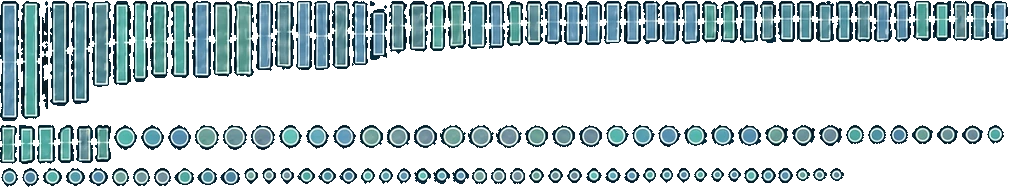
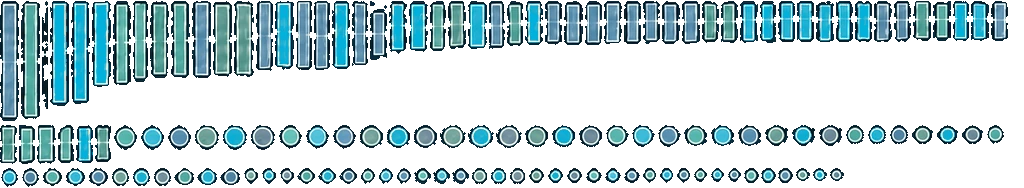
Start the light at the mitochondria, tie a lane to the heading cyan, trim the navy
- Specks now start at mitochondria inside the cells, glow there, and swell as they leave the membrane
- The middle lane and its specks take the brand cyan of "One signal."
- Only the title and the drawing sit on navy; the QSense and LuminAI cards and the quote are back on cream
- Hide the pause button unless it is reached by keyboard; reduced motion still shows the still drawing
- Make the timeline's Next a plain hollow dot reached by a dashed line

Claude-Session: https://claude.ai/code/session_019cuHXtvvktMTK4jsmHHFbv

diff --git a/assets/next/home.js b/assets/next/home.js
@@ -82,8 +82,9 @@
   sync();
 })();
 
-/* The two systems as Kelly's navy drawing, set moving, as the earlier live diagram did: light specks leave the
-   cells and drift to QSense, each one glows as it lands, a counted dot runs to its color's lane, and LuminAI's bars
+/* The two systems as Kelly's navy drawing, set moving, as the earlier live diagram did: light specks start at
+   mitochondria inside the cells (where the light comes from, Nirosha's point), drift out through the membrane to
+   QSense, each one glows as it lands, a counted dot runs to its color's lane, and LuminAI's bars
    ride the lanes left to right, taller when counts come in bursts. The cells, the detector and the lines are one
    still picture; the specks and bars are cut from the same drawing (assets/next/signal-path-night-parts.webp).
    Reduced motion and no JS keep the still drawing, and it only runs while it is on screen. */
@@ -91,7 +92,7 @@
   const art = document.querySelector('[data-signal-path]');
   if (!art || matchMedia('(prefers-reduced-motion: reduce)').matches || !('IntersectionObserver' in window)) return;
   const canvas = art.querySelector('canvas');
-  const toggle = art.parentElement.querySelector('.signal-path__pause');
+  const toggle = art.querySelector('.signal-path__pause');
   const ctx = canvas && canvas.getContext('2d');
   if (!ctx || !toggle) return;
   // Everything below is measured in the drawing's own pixels (1856 x 540).
@@ -99,11 +100,11 @@
   const SPECKS = [[845,124,867,124,889,124,20,21],[524,124,551,124,578,124,25,24],[528,167,547,167,566,167,17,17],[243,167,261,167,279,167,16,18],[795,167,812,167,829,167,15,15],[911,124,936,124,961,124,23,21],[113,124,140,124,167,124,25,27],[297,167,318,167,339,167,19,18],[605,124,631,124,657,124,24,24],[360,167,378,167,396,167,16,18],[359,124,386,124,413,124,25,25],[174,167,197,167,220,167,21,19],[194,124,222,124,250,124,26,27],[278,124,305,124,332,124,25,26],[414,167,433,167,452,167,17,18],[986,124,0,167,21,167,19,21],[42,167,65,167,88,167,21,20],[693,167,710,167,727,167,15,16],[585,167,604,167,623,167,17,17],[642,167,659,167,676,167,15,17],[683,124,710,124,737,124,25,23],[440,124,468,124,496,124,26,25],[471,167,490,167,509,167,17,18],[111,167,132,167,153,167,19,20],[764,124,791,124,818,124,25,23]];
   const MOVER = [744,167,761,167,778,167,15,16];
   const BARS = [[[213,0,19,78,40.0],[0,124,17,41,20.0],[95,124,16,39,18.0],[150,0,19,79,41.0],[430,0,16,52,26.0],[133,0,15,83,40.0],[113,0,18,86,42.0],[42,0,6,109,54.0],[21,0,19,120,61.0],[913,0,18,42,19.0],[171,0,19,79,40.0],[507,0,16,47,23.0],[58,124,16,40,18.0],[933,0,18,42,19.0],[19,124,16,41,19.0],[702,0,17,44,21.0],[721,0,17,44,21.0],[234,0,20,78,38.0],[448,0,18,50,24.0],[37,124,19,41,19.0]],[[409,0,19,53,27.4],[389,0,18,55,25.4],[92,0,19,88,43.4],[525,0,18,46,22.4],[953,0,16,42,18.3],[76,124,17,40,17.3],[332,0,18,70,30.3],[50,0,19,107,50.3],[778,0,17,43,18.3],[740,0,18,44,19.3],[797,0,17,43,18.3],[816,0,18,43,19.3],[836,0,17,43,18.3],[71,0,19,105,48.3],[855,0,17,43,18.3],[275,0,19,71,31.3],[760,0,16,44,19.3],[971,0,18,42,18.3],[468,0,19,50,25.3]],[[604,0,18,45,21.1],[296,0,16,71,34.1],[256,0,17,72,35.1],[314,0,16,71,35.1],[370,0,17,61,33.1],[0,0,19,122,61.1],[352,0,16,66,33.1],[489,0,16,50,25.1],[545,0,17,46,21.1],[624,0,17,45,21.1],[192,0,19,79,38.1],[643,0,17,45,20.1],[662,0,18,45,21.1],[874,0,18,43,20.1],[894,0,17,43,19.1],[991,0,17,42,19.1],[564,0,19,46,22.1],[682,0,18,45,21.1],[585,0,17,46,22.1]]];
+  const MITO = [[80,217],[81,187],[100,233],[130,104],[139,219],[146,386],[150,357],[160,401],[174,265],[179,303],[190,205],[192,260],[205,98],[220,192],[223,414],[292,391],[300,380],[303,310],[308,195],[326,224],[336,157],[364,127],[365,254],[373,378],[390,330],[398,338],[401,139],[402,417],[427,137],[443,210],[462,315],[477,391],[484,337]];
   const LANES = [[126.98, .00001], [283.48, -.00011], [440, .00005]];      // each lane line: y = c + slope * x
-  const EDGE = [[84, 403], [114, 448], [138, 461], [174, 476], [210, 476], [246, 459], [282, 446], [306, 505], [342, 521], [378, 513], [414, 498], [438, 474], [456, 460]];
   const DETECTOR = { x: 888, top: 60, bottom: 488, out: 935, face: [880, 18, 58, 504] };
   const DOT_X = 1061, LANE_X0 = 1084, LANE_X1 = 1825, SPEED = 60;
-  const GLOW = ['120,214,200', '90,200,232', '150,195,235'];
+  const GLOW = ['120,214,200', '0,169,214', '150,195,235'];          // the middle lane is the brand cyan of the heading
   const bySize = BARS.map((lane) => lane.filter((b) => b[2] >= 10).sort((a, b) => a[3] - b[3]));
   const glows = GLOW.map((rgb) => {
     const c = document.createElement('canvas'); c.width = c.height = 64;
@@ -113,18 +114,12 @@
     return c;
   });
   const base = new Image(), parts = new Image();
-  let specks = [], movers = [], hits = [], bars = [[], [], []], queue = [0, 0, 0], energy = [0, 0, 0], lastBar = [0, 0, 0];
+  let specks = [], sources = [], movers = [], hits = [], bars = [[], [], []], queue = [0, 0, 0], energy = [0, 0, 0], lastBar = [0, 0, 0];
   let clock = 0, debt = 0, flash = 0, scale = 1, ready = false, inView = false, paused = false, frame = 0, last = 0;
 
   const laneY = (i, x) => LANES[i][0] + LANES[i][1] * x;
   const ease = (t) => t * t * (3 - 2 * t);
-  function edgeAt(y) {
-    for (let k = 1; k < EDGE.length; k++) {
-      if (y <= EDGE[k][0]) { const [y0, x0] = EDGE[k - 1], [y1, x1] = EDGE[k]; return x0 + (x1 - x0) * (y - y0) / (y1 - y0); }
-    }
-    return EDGE[EDGE.length - 1][1];
-  }
-
+  const grown = (p) => .35 + .65 * ease(Math.min(1, p.age / .9));            // a speck swells as it leaves the cell
   // Colors come from a shuffled bag of three, so no lane runs away with the light for long.
   let bag = [];
   function nextColor() {
@@ -132,10 +127,13 @@
     return bag.pop();
   }
   function spawn() {
-    const y = 84 + Math.random() * 372, x = edgeAt(y) + 12;
+    // Each speck starts at a mitochondrion, more often in the cells nearer the detector, and leaves the cell.
+    const [mx, my] = MITO[Math.floor(Math.pow(Math.random(), .6) * MITO.length)];
+    const x = mx + (Math.random() - .5) * 4, y = my + (Math.random() - .5) * 4, ch = nextColor();
     const ty = DETECTOR.top + Math.random() * (DETECTOR.bottom - DETECTOR.top);
-    const speed = 80 + Math.random() * 55, dx = DETECTOR.x - x, dy = ty - y, d = Math.hypot(dx, dy);
-    specks.push({ x, y, vx: dx / d * speed, vy: dy / d * speed, s: Math.floor(Math.random() * SPECKS.length), ch: nextColor(), age: 0, ph: Math.random() * 6.28 });
+    const dx = DETECTOR.x - x, dy = ty - y, d = Math.hypot(dx, dy), speed = d / (3.6 + Math.random() * 1.6);
+    specks.push({ x, y, vx: dx / d * speed, vy: dy / d * speed, s: Math.floor(Math.random() * SPECKS.length), ch, age: 0, ph: Math.random() * 6.28 });
+    sources.push({ x: mx, y: my, ch, t: 0 });
   }
   function addBar(i) {
     // Counts that arrive close together make taller bars, as in the drawing's clusters.
@@ -159,6 +157,7 @@
       return false;
     });
     hits = hits.filter((h) => (h.t += dt / .5) < 1);
+    sources = sources.filter((o) => (o.t += dt / .8) < 1);
     movers = movers.filter((m) => { m.t += dt / .55; if (m.t < 1) return true; queue[m.ch] = Math.min(3, queue[m.ch] + 1); return false; });
     bars.forEach((lane, i) => {
       lane.forEach((b) => { b.x += SPEED * dt; b.age += dt; });
@@ -181,15 +180,16 @@
       ctx.globalAlpha = flash * .3; ctx.drawImage(base, fx, fy, fw, fh, fx, fy, fw, fh);
     }
     hits.forEach((h) => { ctx.globalAlpha = (1 - h.t) * .8; ctx.drawImage(glows[h.ch], DETECTOR.x - 26, h.y - 26, 52, 52); });
+    sources.forEach((o) => { ctx.globalAlpha = Math.sin(o.t * Math.PI) * .9; ctx.drawImage(glows[o.ch], o.x - 18, o.y - 18, 36, 36); });
     specks.forEach((p) => {
-      const r = SPECKS[p.s][6] * 1.25;
-      ctx.globalAlpha = Math.min(1, p.age / .4) * .7; ctx.drawImage(glows[p.ch], p.x - r, p.y - r, r * 2, r * 2);
+      const r = SPECKS[p.s][6] * 1.25 * grown(p);
+      ctx.globalAlpha = Math.min(1, p.age / .5) * .7; ctx.drawImage(glows[p.ch], p.x - r, p.y - r, r * 2, r * 2);
     });
     ctx.globalCompositeOperation = 'source-over';
     specks.forEach((p) => {
-      const s = SPECKS[p.s], w = s[6], h = s[7];
-      ctx.globalAlpha = Math.min(1, p.age / .4);
-      sprite(s[p.ch * 2], s[p.ch * 2 + 1], w, h, p.x - w / 2, p.y - h / 2, w, h);
+      const s = SPECKS[p.s], k = grown(p), w = s[6] * k, h = s[7] * k;
+      ctx.globalAlpha = Math.min(1, p.age / .5);
+      sprite(s[p.ch * 2], s[p.ch * 2 + 1], s[6], s[7], p.x - w / 2, p.y - h / 2, w, h);
     });
     movers.forEach((m) => {
       const e = ease(m.t), w = MOVER[6], h = MOVER[7];

diff --git a/assets/next/home.css b/assets/next/home.css
@@ -112,40 +112,38 @@
 /* The two systems on a navy band, as one picture of the signal's path: Kelly's drawing, set moving by home.js.
    Nirosha's quote sits on the same navy under the cards. The science page explains them with its own drawings. */
 .home-systems-title { margin: 0 0 clamp(24px, 3vw, 36px); text-align: center; font-size: clamp(26px, 2.6vw, 36px); }
-#two-systems .signal-path { max-width: 1040px; margin: 0 auto; }
+#two-systems { padding-block: clamp(56px, 6vw, 88px); }
+.home-systems .signal-path { max-width: 1040px; margin: 0 auto; }
 /* Kelly's drawing on the band's own navy, so it shows no box; the canvas (home.js) lies over it and takes over
    once its pictures load, with the still drawing left for reduced motion and no JS */
-.signal-path__art { position: relative; margin: clamp(8px, 1.5vw, 20px) 0 0; }
+.signal-path__art { position: relative; max-width: 1040px; margin: clamp(8px, 1.5vw, 20px) auto 0; }
 .signal-path__art img { display: block; width: 100%; height: auto; }
 .signal-path__art canvas { position: absolute; inset: 0; width: 100%; height: 100%; opacity: 0; transition: opacity .4s ease; }
 .signal-path__art.is-live canvas { opacity: 1; }
-.signal-path__controls { min-height: 34px; margin: 12px 0 clamp(28px, 3.4vw, 44px); text-align: center; }
-.signal-path__pause { padding: 7px 14px; border: 1px solid rgba(255, 255, 255, .3); border-radius: var(--r-control); background: transparent; font: 500 14px/1.25 var(--body); color: var(--on-night); cursor: pointer; }
-.signal-path__pause:hover { border-color: var(--on-night); }
-/* The systems band is navy: white words, cyan accents, soft white rules */
-.home-page #two-systems .soft, #two-systems .system-kind, #two-systems .system-status { color: var(--teal-night); }
-#two-systems .signal-path__systems { border-top-color: var(--rule-night); }
-#two-systems .signal-path__system + .signal-path__system { border-color: var(--rule-night); }
-#two-systems .signal-path__system p:not([class]) { color: var(--on-night); }
-#two-systems .home-quote-band blockquote { color: var(--on-night); }
-#two-systems .home-quote-band figcaption { color: var(--on-night-muted); }
+/* No visible button (Kelly's call); keyboard users still get one when they tab to it, and reduced motion stops it */
+.signal-path__pause { position: absolute; right: 0; bottom: 0; padding: 7px 14px; border: 1px solid rgba(255, 255, 255, .5); border-radius: var(--r-control); background: var(--night); font: 500 14px/1.25 var(--body); color: var(--on-night); cursor: pointer; opacity: 0; pointer-events: none; }
+.signal-path__pause:focus-visible { opacity: 1; pointer-events: auto; }
+/* Only the title and the drawing sit on navy; the cards and the quote follow on cream, starting close under the band */
+.home-page #two-systems .soft { color: var(--teal-night); }
+.home-systems { padding-top: clamp(56px, 6vw, 88px); }
+.home-systems .signal-path__systems { border-top: 0; }
 .signal-path__systems { display: grid; grid-template-columns: repeat(2, minmax(0, 1fr)); border-top: 1px solid var(--rule-strong); }
-.signal-path__system { display: flex; flex-direction: column; padding: clamp(24px, 3vw, 36px) clamp(20px, 3vw, 40px) 0; }
+.signal-path__system { display: flex; flex-direction: column; padding: 0 clamp(20px, 3vw, 40px); }
 .signal-path__system:first-child { padding-left: 0; }
 .signal-path__system:last-child { padding-right: 0; }
 .signal-path__system + .signal-path__system { border-left: 1px solid var(--rule); }
 .system-kind, .system-status { margin: 0; font: 600 12px/1.4 var(--display); letter-spacing: .14em; text-transform: uppercase; color: var(--teal); }
-#two-systems .signal-path h4 { margin: 10px 0 6px; font: 400 clamp(28px, 2.6vw, 36px)/1.1 var(--display); letter-spacing: -.02em; color: var(--on-night); }
-#two-systems .signal-path .signal-path__role { margin: 0 0 16px; font: 500 clamp(18px, 1.6vw, 21px)/1.35 var(--display); color: var(--teal-night); }
+.home-systems .signal-path h4 { margin: 10px 0 6px; font: 400 clamp(28px, 2.6vw, 36px)/1.1 var(--display); letter-spacing: -.02em; color: var(--ink); }
+.home-systems .signal-path .signal-path__role { margin: 0 0 16px; font: 500 clamp(18px, 1.6vw, 21px)/1.35 var(--display); color: var(--teal); }
 .signal-path__system p:not([class]) { margin: 0 0 24px; font-size: 17px; line-height: 1.6; color: var(--text); }
 .system-status { display: flex; align-items: center; gap: 8px; margin-top: auto; }
 .system-status::before { content: ""; width: 7px; height: 7px; border-radius: 50%; background: var(--cyan); }
 /* Nirosha's quote as a quiet pull quote: no box, a short teal rule above, set a size down from the headings */
-#two-systems .home-quote-band { max-width: 760px; margin: clamp(56px, 7vw, 96px) auto 0; padding: 0; text-align: center; }
+.home-systems .home-quote-band { max-width: 760px; margin: clamp(56px, 7vw, 96px) auto 0; padding: 0; text-align: center; }
 .home-quote-band::before { content: ""; display: block; width: 40px; height: 2px; margin: 0 auto clamp(24px, 3vw, 32px); background: var(--cyan); }
 .home-quote-band blockquote { max-width: 34em; margin: 0 auto; font: italic 400 clamp(19px, 1.8vw, 23px)/1.55 var(--display); letter-spacing: -.005em; color: var(--ink); text-wrap: pretty; }
 .home-quote-band figcaption { margin-top: 18px; font: 400 15px/1.5 var(--body); color: var(--muted); }
-#two-systems .home-research-link { margin-top: clamp(40px, 5vw, 56px); text-align: center; }
+.home-systems .home-research-link { margin-top: clamp(40px, 5vw, 56px); text-align: center; }
 .home-research-link { margin-top: 32px; }
 
 /* Full-width microscope photo, as on the live page, drifting a little slower than the page (home.js) */
@@ -156,7 +154,10 @@
    What each study found lives on the science page. */
 .home-proof .research-head { margin-bottom: clamp(40px, 5vw, 64px); }
 .home-proof .research-stages { margin-bottom: clamp(48px, 5vw, 72px); }
-.home-proof .stages li.next::before { background: var(--paper); box-shadow: inset 0 0 0 3px var(--paper), inset 0 0 0 8px var(--wash); }
+/* "Next" is a plain hollow dot the size of the others, reached by a dashed line: not yet, without a drawn-by-code target */
+.home-proof .stages li.next::before { background: var(--paper); box-shadow: none; border: 1.5px solid var(--ink); }
+.home-proof .stages li.next::after { content: none; }
+.home-proof .stages li:nth-last-child(2) { background: repeating-linear-gradient(90deg, var(--ink) 0 5px, transparent 5px 10px) no-repeat 7px 7px / 100% 1px; }
 .stages .stage-paper { display: inline-block; margin-top: 10px; font-size: 14px; line-height: 1.4; color: var(--text); text-decoration: underline; text-decoration-color: var(--rule-strong); text-underline-offset: 3px; }
 .stages .stage-paper:hover, .stages .stage-paper:focus-visible { color: var(--teal-label); text-decoration-color: currentColor; }
 .proof-row { padding: clamp(28px, 3vw, 40px) 0; border-top: 1px solid var(--rule); text-align: center; }
@@ -248,8 +249,10 @@
   .survival-when { font-size: 13px; }
   .signal-path__systems { grid-template-columns: 1fr; }
   .signal-path__system, .signal-path__system:first-child, .signal-path__system:last-child { padding: 24px 0; }
+  .signal-path__system:first-child { padding-top: 0; }
   .signal-path__system + .signal-path__system { border-left: 0; border-top: 1px solid var(--rule); }
   .signal-path__art { margin-inline: calc(var(--gutter) * -1); }
+  .home-proof .stages li:nth-last-child(2) { background: repeating-linear-gradient(180deg, var(--ink) 0 5px, transparent 5px 10px) no-repeat 7px 8px / 1px 100%; }
   .home-photo-break img { object-position: 38% center; }
   .hc-panel { flex-basis: 88%; grid-template-columns: 1fr; gap: 20px; align-items: start; }
   .hc-text h3 { font-size: 28px; margin: 12px 0 12px; }

diff --git a/index.html b/index.html
@@ -21,7 +21,7 @@
 <link rel="stylesheet" href="assets/next/science.css?v=20261028r3">
 <link rel="stylesheet" href="assets/homepage-v2-20260917/assets/tumor-growth/story.css?v=navy-2b-punch-c">
 <link rel="stylesheet" href="assets/homepage-v2-20260917/assets/science-atlas/cellular-signals.css">
-<link rel="stylesheet" href="assets/next/home.css?v=20261028r25">
+<link rel="stylesheet" href="assets/next/home.css?v=20261028r27">
 </head>
 <body class="home-page">
 <a class="skip-link" href="#main">Skip to content</a>
@@ -220,16 +220,22 @@
     </div>
   </section>
 
-  <!-- 02 Our approach, continued: the two systems -->
+  <!-- 02 Our approach, continued: the two systems as Kelly's drawing, moving, on a navy band -->
   <section class="section night" id="two-systems" aria-labelledby="systems-title">
     <div class="shell">
       <h3 class="home-systems-title" id="systems-title">Two systems. <span class="soft">One signal.</span></h3>
+      <figure class="signal-path__art" data-signal-path data-base="assets/next/signal-path-night-base.webp" data-parts="assets/next/signal-path-night-parts.webp">
+        <img src="assets/next/signal-path-night.webp" srcset="assets/next/signal-path-night-1000.webp 1000w, assets/next/signal-path-night.webp 1856w" sizes="(max-width: 1100px) 100vw, 1040px" width="1856" height="540" loading="lazy" decoding="async" alt="Line drawing on navy: faint light given off by the mitochondria inside a cluster of cells drifts to a detector panel, and the counts it records come out as three lanes of bars, one for each color.">
+        <canvas aria-hidden="true"></canvas>
+        <button class="signal-path__pause" type="button" aria-pressed="false" hidden>Pause animation</button>
+      </figure>
+    </div>
+  </section>
+
+  <!-- 02 Our approach, continued: what each system does -->
+  <section class="section home-systems" aria-label="QSense and LuminAI">
+    <div class="shell">
       <div class="signal-path reveal">
-        <figure class="signal-path__art" data-signal-path data-base="assets/next/signal-path-night-base.webp" data-parts="assets/next/signal-path-night-parts.webp">
-          <img src="assets/next/signal-path-night.webp" srcset="assets/next/signal-path-night-1000.webp 1000w, assets/next/signal-path-night.webp 1856w" sizes="(max-width: 1100px) 100vw, 1040px" width="1856" height="540" loading="lazy" decoding="async" alt="Line drawing on navy: faint light given off by a cluster of cells drifts to a detector panel, and the counts it records come out as three lanes of bars, one for each color.">
-          <canvas aria-hidden="true"></canvas>
-        </figure>
-        <p class="signal-path__controls"><button class="signal-path__pause" type="button" aria-pressed="false" hidden>Pause animation</button></p>
         <div class="signal-path__systems">
           <article class="signal-path__system">
             <p class="system-kind">Hardware</p>
@@ -424,6 +430,6 @@
 <script src="assets/homepage-v2-20260917/percent.js"></script>
 <script src="assets/homepage-v2-20260917/hero-photons.js?v=20261028h"></script>
 <script src="assets/homepage-v2-20260917/hero-motion.js"></script>
-<script src="assets/next/home.js?v=20261028r9"></script>
+<script src="assets/next/home.js?v=20261028r10"></script>
 </body>
 </html>
